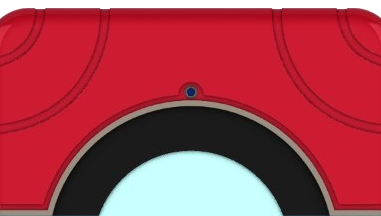
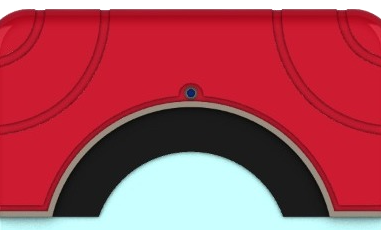
updated static HTML version of the frame so the top 2 rows are aligned and the shadow appears more naturally, only bottom row remains and then exploring if/how to recreate them using React (for possible frame swapping functionality in 2.0)

diff --git a/public/index.html b/public/index.html
@@ -25,7 +25,9 @@
       <div class="pokedex-panels col-4" id="pokedex-top">
         <img src="/img/kalosDexTop.png">
       </div>
-      <div class="col-4"></div>
+      <div class="col-4">
+        <img src="/img/kalosDexTopRight(4).png">
+      </div>
     </div>
 
     <div class="row">
@@ -33,12 +35,10 @@
         <img src="/img/kalosDexLeft.png">
       </div>
 
-      <div class="col-4" id="root-wrapper">
-        <div id="root">hello</div>
-      </div>
+      <div class="col-4 root-wrapper" id="root">hello</div>
 
       <div class="pokedex-panels col-4" id="pokedex-right">
-        <img src="/img/kalosDexRight.png">
+        <img src="/img/kalosDexRight(4).png">
       </div>
     </div>
 

diff --git a/src/bird-display.js b/src/bird-display.js
@@ -15,7 +15,7 @@ function BirdDisplay({ birds }) {
     <React.Fragment>
       {currentBird ? (
         <React.Fragment>
-          <div id="current-bird">
+          <span id="current-bird">
             <div id="overflow-wrapper">
               <ImageWrapper
                 name={currentBird.name}
@@ -34,7 +34,7 @@ function BirdDisplay({ birds }) {
                 wingspan={currentBird.wingspan}
               />
             </div>
-          </div>
+          </span>
           <div>
             <button onClick={handleNextBird}>Next</button>
           </div>

diff --git a/src/headercomponents/image-wrapper.css b/src/headercomponents/image-wrapper.css
@@ -3,8 +3,8 @@
 .image-wrapper {
     text-align: center;
     /* border: 2px solid black; */
-    padding: 0px 50px 50px 50px;
+    /* padding: 0px 50px 50px 50px; */
     width:fit-content;
-    background-color: #C9FFFF;
-    box-shadow: -2px 4px 5px #85a8ac inset;
+    background-color: #DAFDFD;
+    /* box-shadow: -2px 4px 5px #85a8ac inset; */
 }

diff --git a/src/bird-display.css b/src/bird-display.css
@@ -1,9 +1,4 @@
-/* body {
-    background-color: rgb(204, 240, 228);
-    justify-content: center;
-    align-items: center;
-    display:flex;
-} */
+
 
 #overflow-wrapper {
     overflow:scroll;

diff --git a/src/App.js b/src/App.js
@@ -20,7 +20,7 @@ function App() {
     };
 
     fetchBirds();
-  }, [birds]);
+  }, []);
 
   console.log('rendering app with birds: ', birds); 
   
